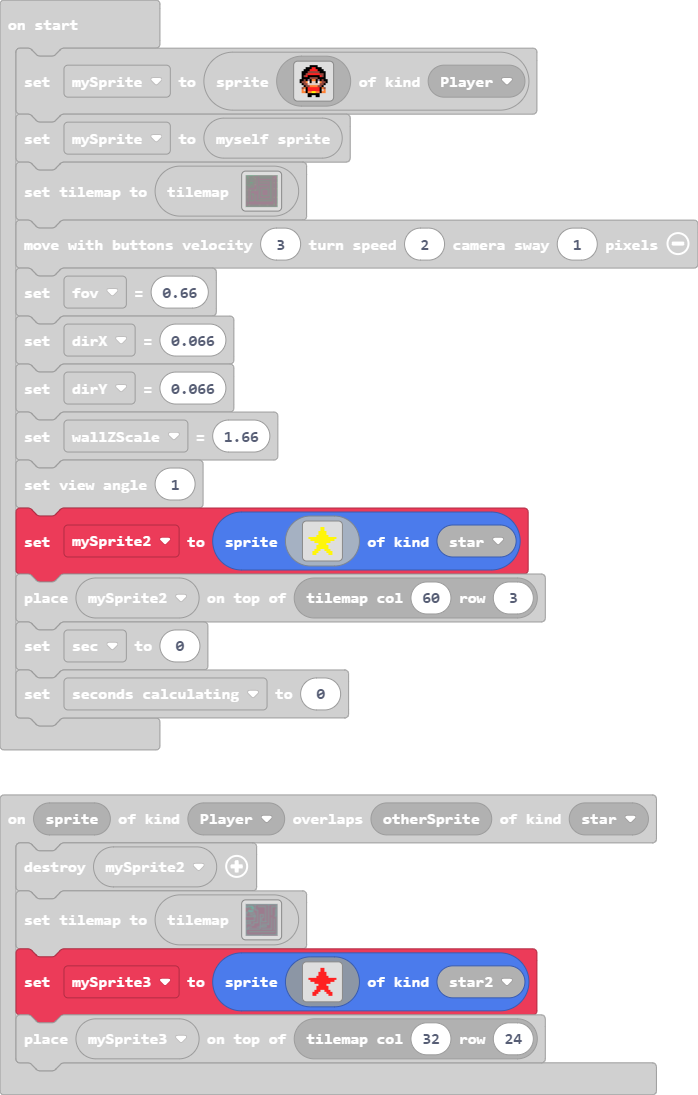
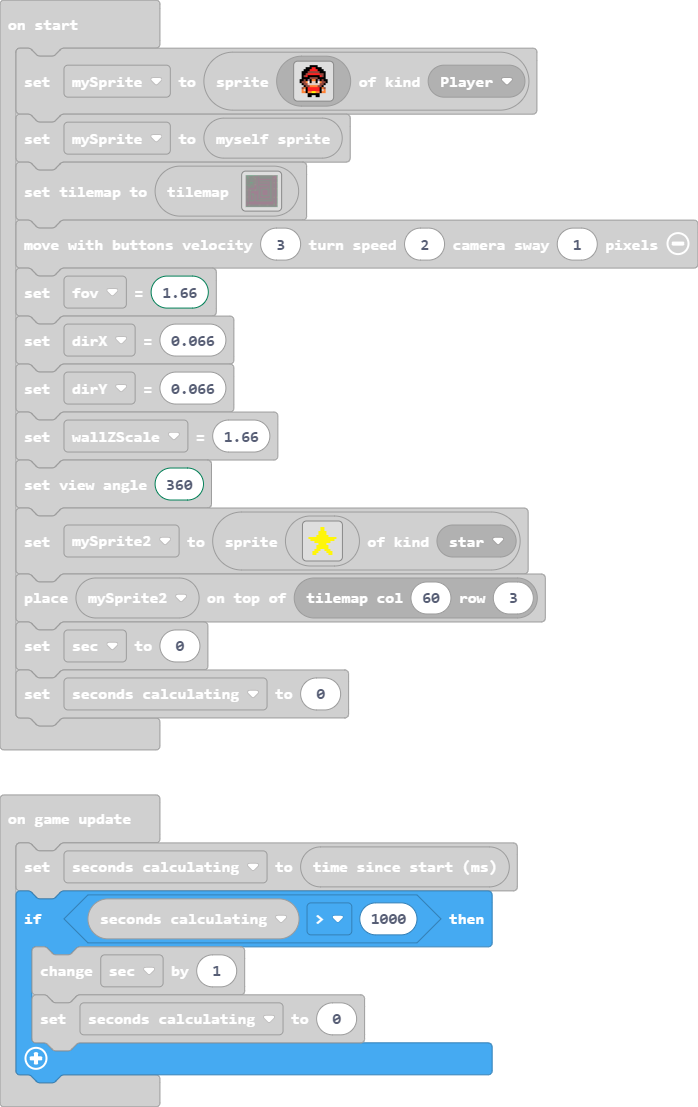
Update main.blocks, main.ts

Changed region(s): [[0.0, 0.0621, 1.0, 0.6831], [0.0, 0.7142, 0.9628, 1.0], [0.6318, 0.0621, 0.692, 0.0932]]

diff --git a/main.ts b/main.ts
@@ -148,11 +148,11 @@ mySprite = sprites.create(img`
 mySprite = Render.getRenderSpriteVariable()
 tiles.setCurrentTilemap(tilemap`level2`)
 Render.moveWithController(3, 2, 1)
-Render.setAttribute(Render.attribute.fov, 0.66)
+Render.setAttribute(Render.attribute.fov, 1.66)
 Render.setAttribute(Render.attribute.dirX, 0.066)
 Render.setAttribute(Render.attribute.dirY, 0.066)
 Render.setAttribute(Render.attribute.wallZScale, 1.66)
-Render.setViewAngleInDegree(1)
+Render.setViewAngleInDegree(360)
 mySprite2 = sprites.create(img`
     . . . . . . . . . . . . . . . . 
     . . . . . . . 5 5 . . . . . . . 
@@ -176,7 +176,7 @@ sec = 0
 let seconds_calculating = 0
 game.onUpdate(function () {
     seconds_calculating = game.runtime()
-    if (seconds_calculating == 1000) {
+    if (seconds_calculating > 1000) {
         sec += 1
         seconds_calculating = 0
     }
